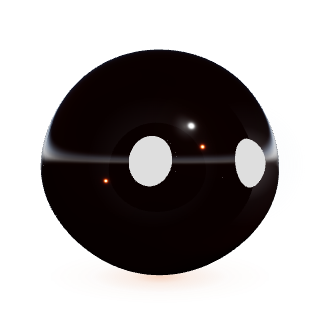
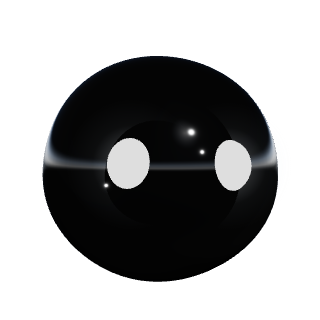
Remove colored caustic glow from chat sphere

diff --git a/desktop/src/shared/ui/mote3dScene.js b/desktop/src/shared/ui/mote3dScene.js
@@ -386,7 +386,7 @@ export function knownExpression(value) {
  * light count is part of the shader program, so a warm-up must build exactly
  * this for the unit count it wants compiled.
  */
-export function buildScene(assets, kind, tints) {
+export function buildScene(assets, kind, tints, { showCaustic = true } = {}) {
   const { THREE, glow } = assets;
   const scene = new THREE.Scene();
   const key = new THREE.DirectionalLight(0xffffff, 0.9);
@@ -408,19 +408,21 @@ export function buildScene(assets, kind, tints) {
     wash.position.set(-1.6, -0.5, 1.9);
     holder.add(wash);
 
-    const caustic = new THREE.Sprite(
-      new THREE.SpriteMaterial({
-        map: glow,
-        color: toneOf(THREE, tint, 0.42),
-        transparent: true,
-        depthWrite: false,
-        blending: THREE.AdditiveBlending,
-        opacity: 0.34,
-      }),
-    );
-    caustic.scale.set(built.radius * 2.1, built.radius * 0.5, 1);
-    caustic.position.set(0, -built.radius * 1.02, 0);
-    holder.add(caustic);
+    if (showCaustic) {
+      const caustic = new THREE.Sprite(
+        new THREE.SpriteMaterial({
+          map: glow,
+          color: toneOf(THREE, tint, 0.42),
+          transparent: true,
+          depthWrite: false,
+          blending: THREE.AdditiveBlending,
+          opacity: 0.34,
+        }),
+      );
+      caustic.scale.set(built.radius * 2.1, built.radius * 0.5, 1);
+      caustic.position.set(0, -built.radius * 1.02, 0);
+      holder.add(caustic);
+    }
 
     return {
       holder,

diff --git a/desktop/src/shared/ui/mote3d.js b/desktop/src/shared/ui/mote3d.js
@@ -309,7 +309,9 @@ class Mote3D extends HTMLElement {
           .map((s) => s.trim())
           .filter(Boolean)
       : [this.getAttribute("tint") || "#e6efff"];
-    const { scene, camera, units } = buildScene(assets, kind, tints);
+    const { scene, camera, units } = buildScene(assets, kind, tints, {
+      showCaustic: !this.hasAttribute("no-caustic"),
+    });
     this._assets = assets;
     this._THREE = assets.THREE;
     this._scene = scene;

diff --git a/desktop/src/features/luca/residents/ChatAgentMark.tsx b/desktop/src/features/luca/residents/ChatAgentMark.tsx
@@ -63,9 +63,10 @@ export function ChatAgentMark({
             "aria-hidden": true,
             className: "luca-chat-agent-mark__live-mote",
             expression: "ambient",
+            "no-caustic": "",
             species: "mote",
             style: { height: 49, width: 49 },
-            tint: "#c96442",
+            tint: "#b8b8b8",
           })
         : null}
       {showSandpile ? (
